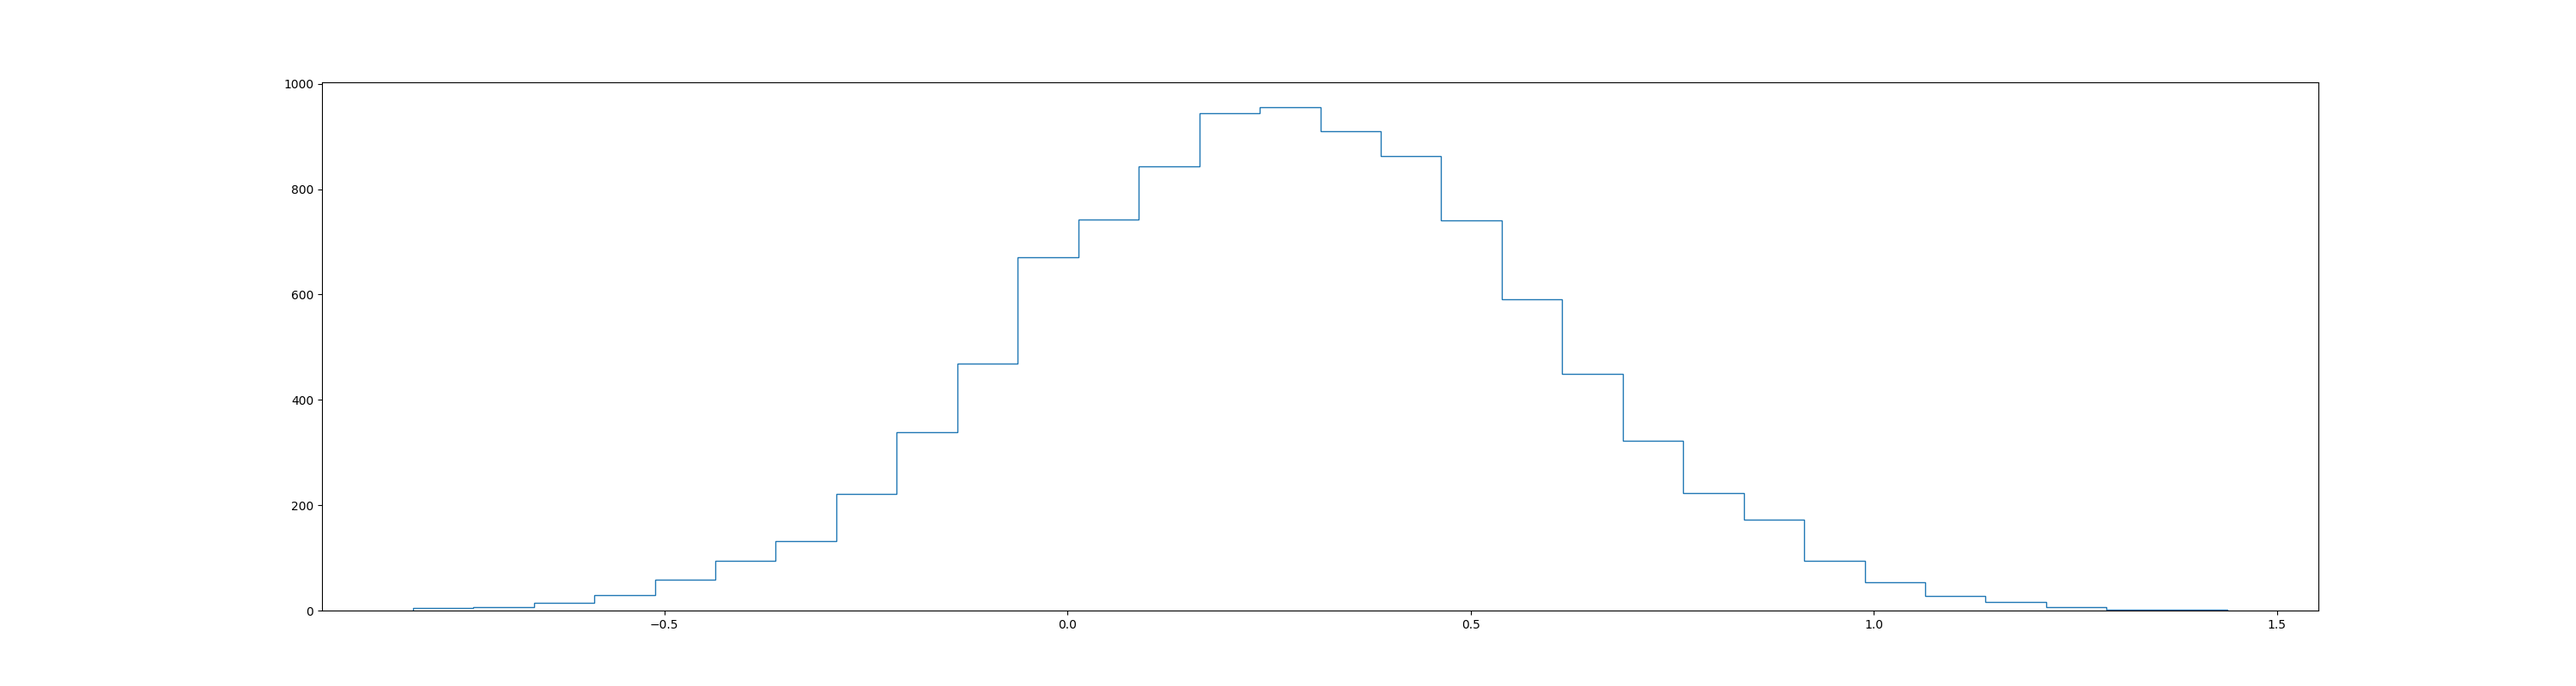
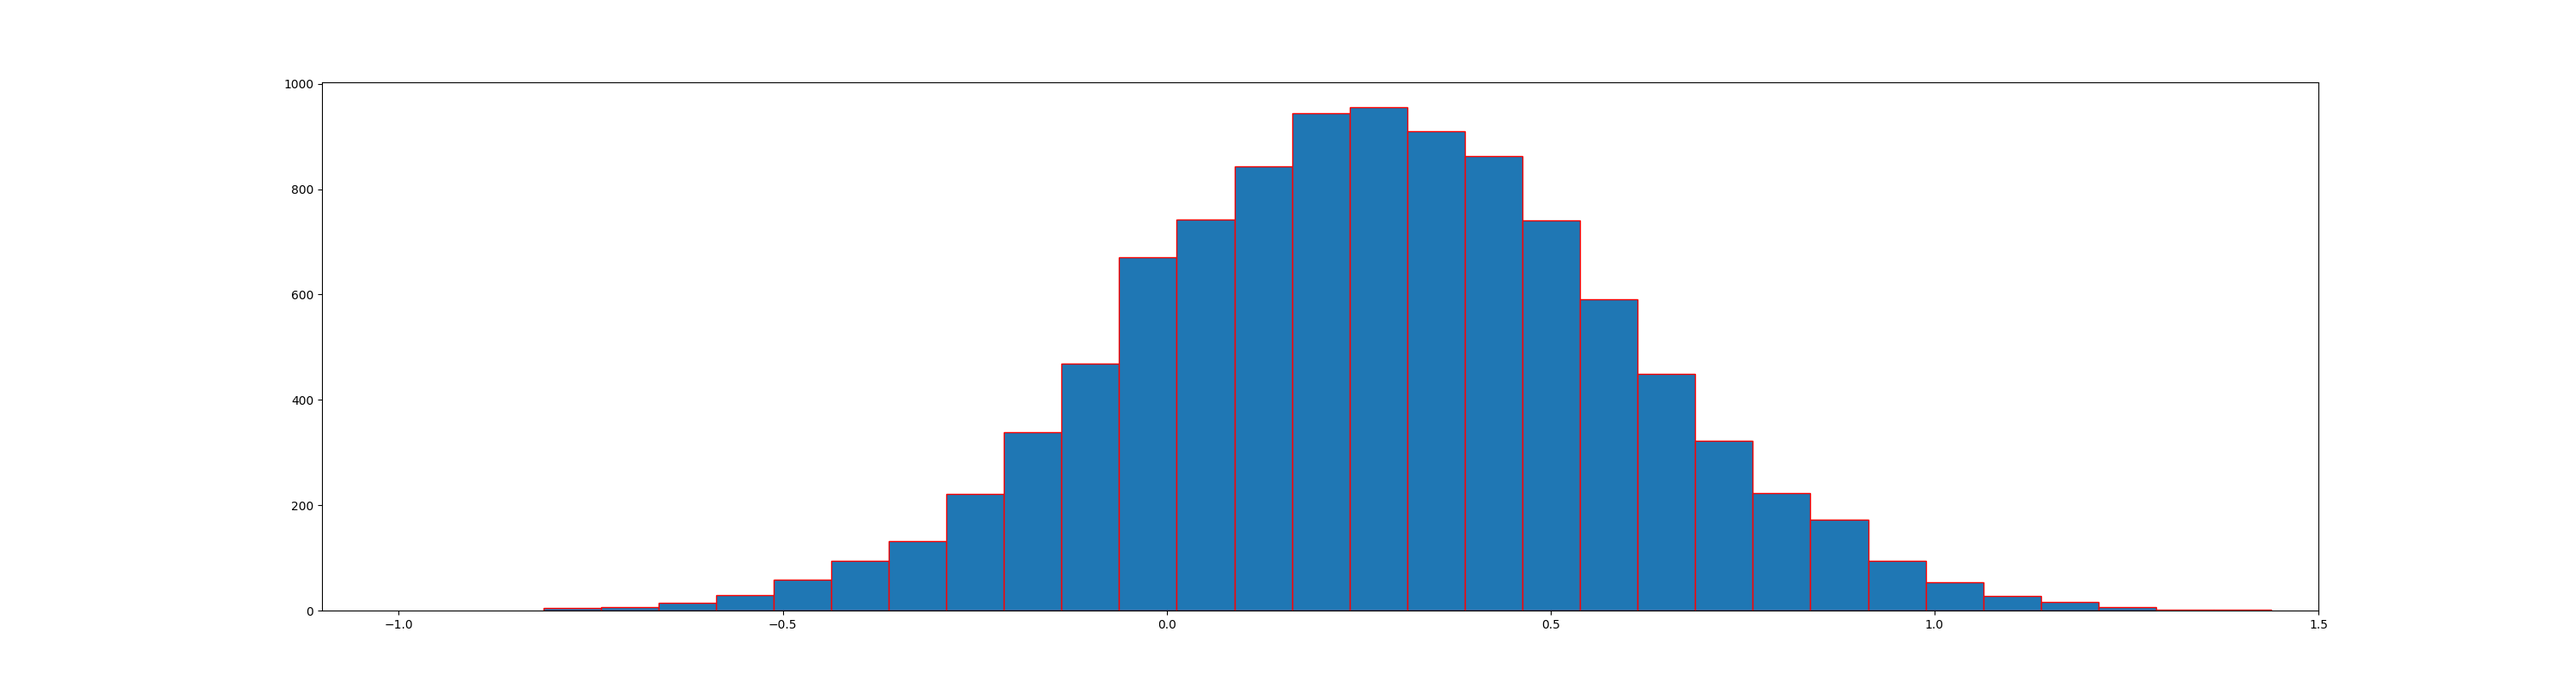
histogram works properly

Changed region(s): [[0.155, 0.1562, 0.837, 0.9062]]

diff --git a/plot.py b/plot.py
@@ -1,40 +1,51 @@
 import matplotlib.pyplot as plt
 
 datasets = []
-with open("v_values.txt") as file:
-    index = -1
-    for line in file:
-        if line.startswith("row"):
-            datasets.append([])
-            index += 0
-        else:
-            datasets[index].append(float(line))
-
-fig, ax = plt.subplots(figsize=(30,8))
-
-for dataset in datasets[:6]:
-     ax.plot(dataset)
-
-
-fig.savefig("probability_dens.png")
-
-times = [30, 50, 100]
+# with open("v_values.txt") as file:
+#     index = -1
+#     for line in file:
+#         if line.startswith("row"):
+#             datasets.append([])
+#             index += 0
+#         else:
+#             datasets[index].append(float(line))
+# 
+# fig, ax = plt.subplots(figsize=(30,8))
+# 
+# for dataset in datasets[:6]:
+#      ax.plot(dataset)
+# 
+# 
+# fig.savefig("probability_dens.png")
+# 
+# times = [30, 50, 100]
 
 bin_bounds = []
 with open("bin_bounds.txt") as file:
     for line in file:
         bin_bounds.append(float(line))
 
-for time in times:
-    counts = []
-    with open(f"histogram_t{str(time)}.txt") as file:
-        for line in file:
-            counts.append(int(line))
+counts = []
+with open("histogram_t30.txt") as file:
+    for line in file:
+        counts.append(int(line))
 
-    fig, ax = plt.subplots(figsize=(30,8))
+fig, ax = plt.subplots(figsize=(30, 8))
+ax.hist(bin_bounds[:-1], bin_bounds, weights=counts, edgecolor="red")
+ax.set_xticks([-1, -0.5, 0, 0.5, 1, 1.5])
+ax.set_xlim(-1.1, 1.5)
+fig.savefig("histogram_t30.png")
 
-    # ax.bar(bin_bounds, counts)
-    ax.stairs(counts, bin_bounds)
-
-    fig.savefig(f"histogram_t{str(time)}.png")
+    ## for time in times:
+    ##     counts = []
+    ##     with open(f"histogram_t{str(time)}.txt") as file:
+    ##         for line in file:
+    ##             counts.append(int(line))
+    ## 
+    ##     fig, ax = plt.subplots(figsize=(30,8))
+    ## 
+    ##     ax.bar(bin_bounds[1:], counts)
+    ##     # ax.stairs(counts, bin_bounds)
+    ## 
+    ##     fig.savefig(f"histogram_t{str(time)}.png")
 
